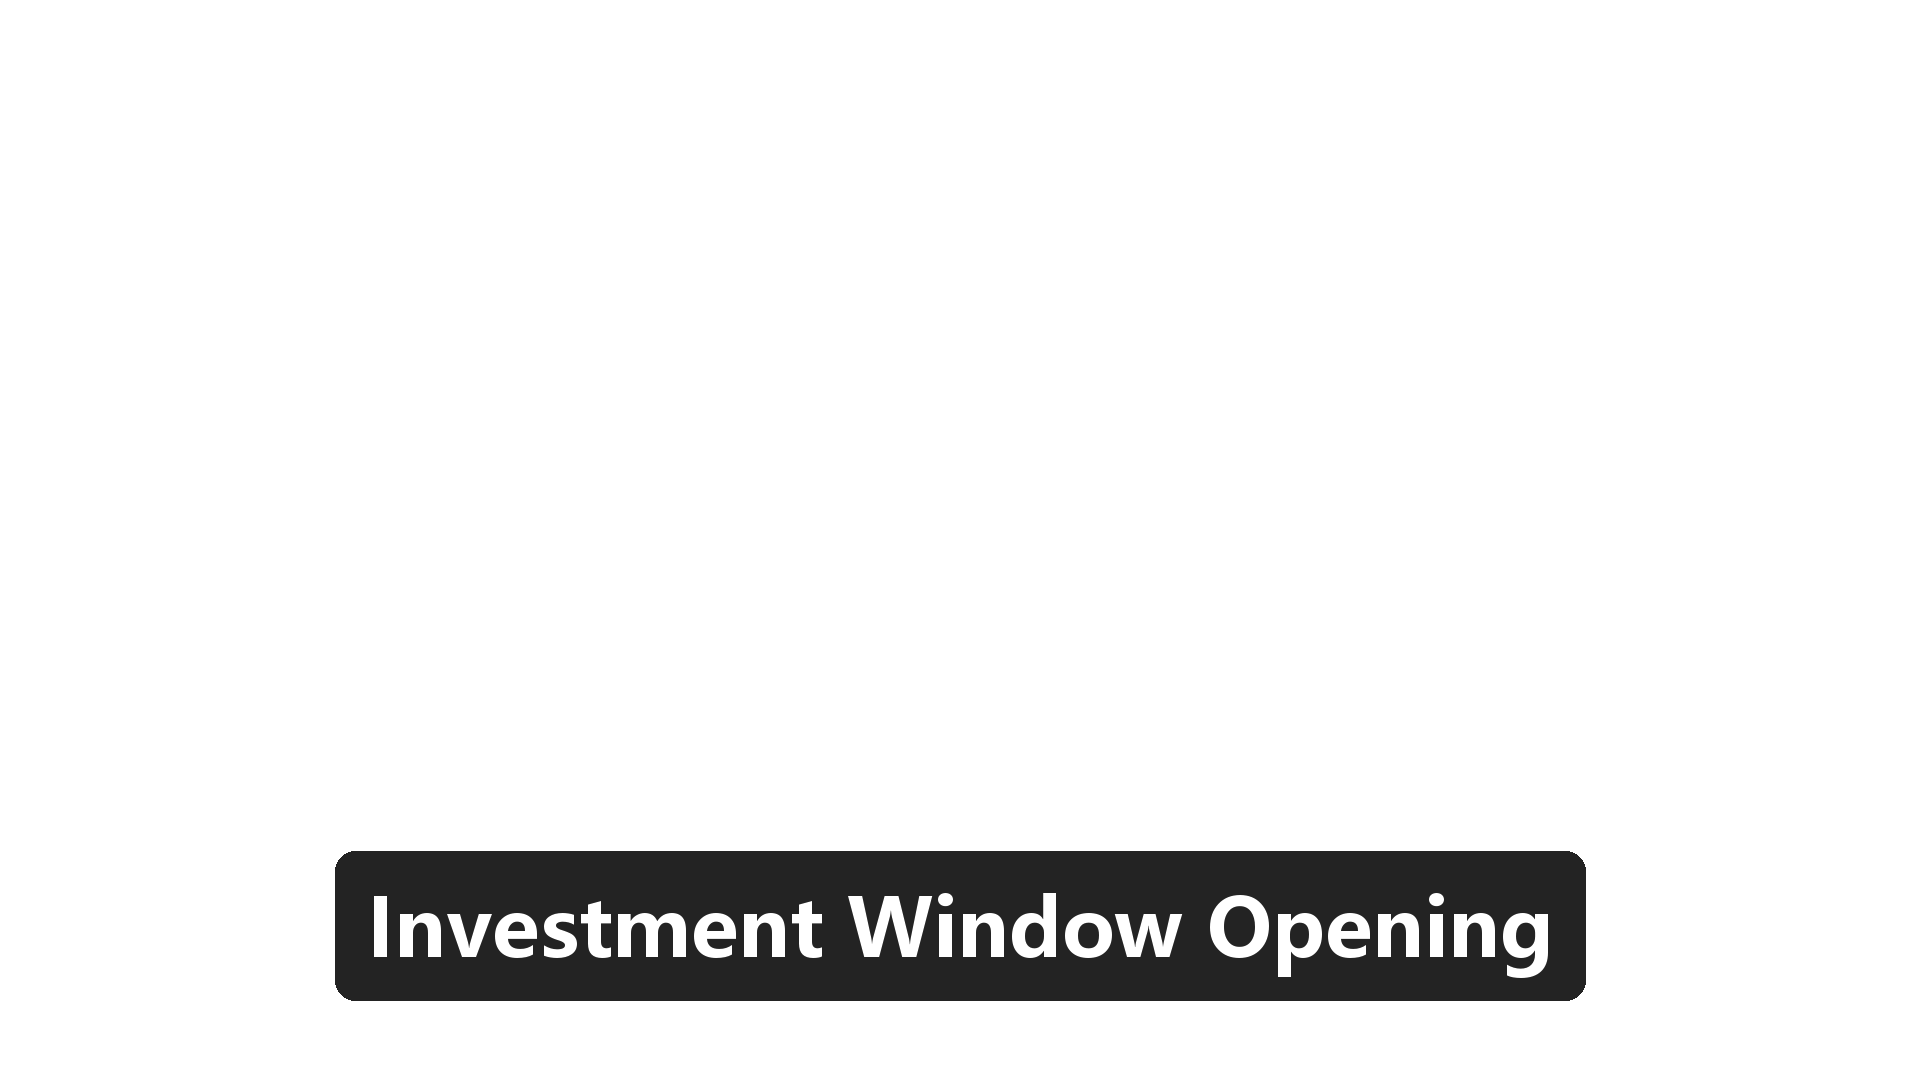
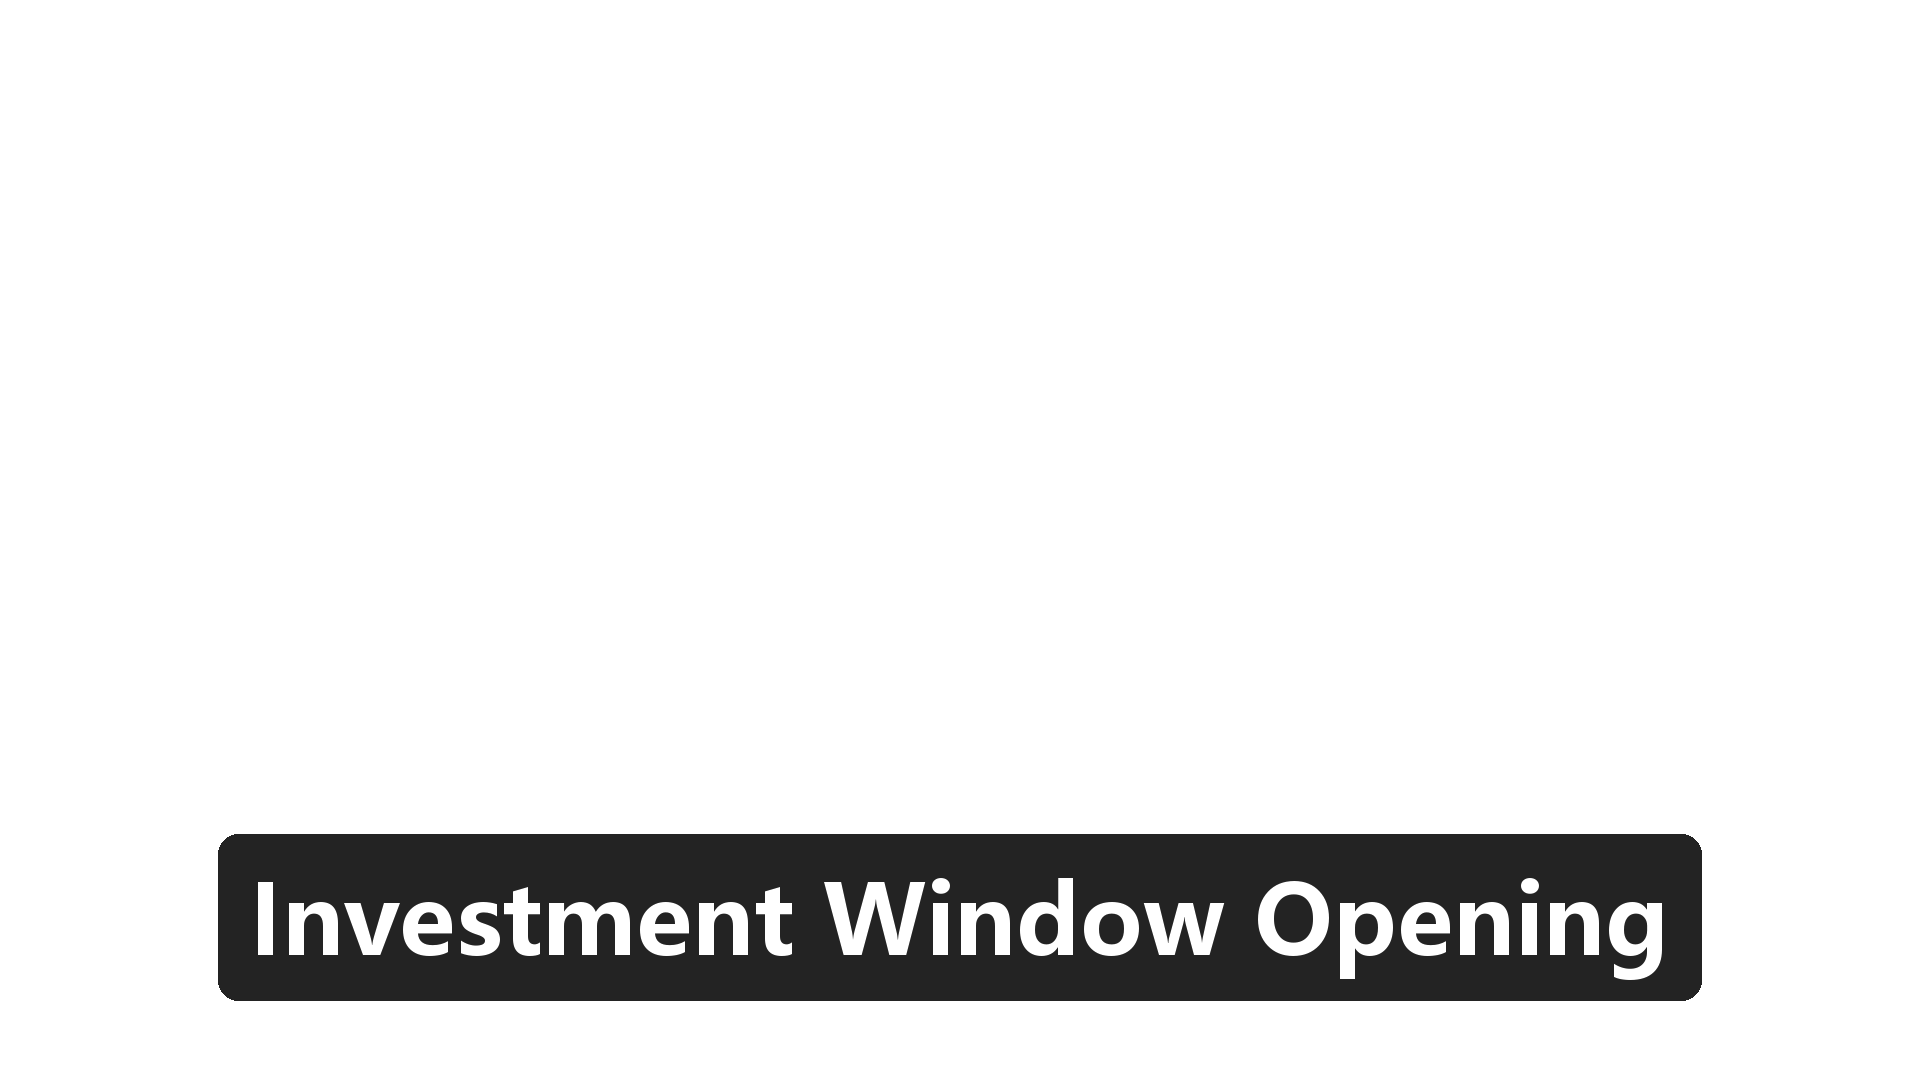
v0.6.9: 段5 96pt 收尾 + 段4 c5终极 (count-up被editly阻断→静态+c5) (8.18 vision严)

Changed region(s): [[0.0938, 0.7639, 0.9062, 0.9472]]

diff --git a/_scripts/gen_subtitle_countup.py b/_scripts/gen_subtitle_countup.py
@@ -1,0 +1,95 @@
+#!/usr/bin/env python
+# gen_subtitle_countup.py - v0.6.9: 段 4 count-up 数字动画
+# 生成 5 张 PNG (0%→25%→50%→75%→95%+), 段 4 持续 7s, 5 帧 × 1.4s 切换
+# 用 editly 多 image 层 + 切换时间错开
+import os
+from PIL import Image, ImageDraw, ImageFont
+
+W, H = 1920, 1080
+
+FONT_CANDIDATES = [
+    r"C:\Windows\Fonts\msyhbd.ttc",
+    r"C:\Windows\Fonts\msyh.ttc",
+    r"C:\Windows\Fonts\arialbd.ttf",
+    r"C:\Windows\Fonts\YuGothR.ttc",
+]
+
+FONT = next(f for f in FONT_CANDIDATES if os.path.exists(f))
+
+# 段 4 5 帧数字进度 (0%→25%→50%→75%→95%+)
+# 每帧 1.4s, 总 7s
+COUNTS = [
+    ("0%",    "00.0s-01.4s"),
+    ("25%",   "01.4s-02.8s"),
+    ("50%",   "02.8s-04.2s"),
+    ("75%",   "04.2s-05.6s"),
+    ("95%+",  "05.6s-07.0s"),
+]
+
+# 段 4 三语
+PREFIX = {
+    "zh": "智能产线稼动率",
+    "en": "Smart Line Uptime",
+    "ja": "スマートライン 稼働率",
+}
+
+def gen_countup_png(count: str, prefix: str, out_path: str, font_size: int = 70, padding: int = 32, radius: int = 20):
+    """生成 count-up PNG: 黑底圆角 + "智能产线稼动率 95%+" 整段字幕"""
+    img = Image.new("RGBA", (W, H), (0, 0, 0, 0))
+    draw = ImageDraw.Draw(img)
+
+    # 字号: 前缀 56pt, 数字 96pt (大字更醒目)
+    font_prefix = ImageFont.truetype(FONT, 56)
+    font_count = ImageFont.truetype(FONT, 96)
+
+    text = f"{prefix} {count}"
+
+    bbox = draw.textbbox((0, 0), text, font=font_count)
+    text_w = bbox[2] - bbox[0]
+    text_h = bbox[3] - bbox[1]
+
+    box_w = text_w + padding * 2
+    box_h = text_h + padding * 2
+
+    edge_margin = 80
+    box_x = edge_margin
+    box_y = H - box_h - edge_margin
+
+    # 画圆角矩形
+    draw.rounded_rectangle(
+        [(box_x, box_y), (box_x + box_w, box_y + box_h)],
+        radius=radius,
+        fill=(0, 0, 0, 220),
+    )
+
+    # 画白字 (居中)
+    text_x = box_x + box_w // 2
+    text_y = box_y + box_h // 2
+    draw.text(
+        (text_x, text_y),
+        text,
+        font=font_count,
+        fill=(255, 255, 255, 255),
+        anchor="mm",
+    )
+
+    img.save(out_path, "PNG")
+    print(f"  ✓ {out_path} ({box_w}x{box_h} @ {box_x},{box_y}, count={count})")
+    return out_path
+
+if __name__ == "__main__":
+    OUT_DIR = "G:/agent/hermes/via54Design-v6/subtitles/countup"
+    os.makedirs(OUT_DIR, exist_ok=True)
+
+    print("=== v0.6.9 段 4 count-up PNG: 3 语 × 5 帧 = 15 张 ===\n")
+    total = 0
+    for lang in ["zh", "en", "ja"]:
+        prefix = PREFIX[lang]
+        for i, (count, _time) in enumerate(COUNTS):
+            out = os.path.join(OUT_DIR, f"sub_04_{lang}_c{i+1}_{count.replace('+', 'p')}.png")
+            gen_countup_png(count, prefix, out)
+            total += 1
+    print(f"\n=== 完成 {total} 张 count-up PNG ===")
+    print("\n时间分配 (段 4 持续 7s):")
+    for count, time in COUNTS:
+        print(f"  {count}: {time}")

diff --git a/_scripts/gen_subtitle_png_v2.py b/_scripts/gen_subtitle_png_v2.py
@@ -61,7 +61,7 @@ SUBTITLES = {
         "zh": "投资窗口正在打开",
         "en": "Investment Window Opening",
         "ja": "投資の窓が開く",
-        "size": 80,
+        "size": 96,  # v0.6.9 收尾压轴: 80pt → 96pt 配 hook 段 1
         "pos": "bottom-center",  # 段 5 outlook 收尾居中
     },
 }

diff --git a/docs/lithium-video-v6-translated-v7.md b/docs/lithium-video-v6-translated-v7.md
@@ -1,0 +1,92 @@
+# 锂电 30s v0.6.9 报告 (★ 段 5 96pt 收尾压轴 + 段 4 c5 终极 PNG ★)
+
+> 时间: 2026-06-12 14:35
+> 任务: 段 5 字幕 80pt→96pt 收尾 + 段 4 c5 95%+ 终极 PNG
+> 输出: 3 版本 mp4 (28s/17.5MB) + 30 PNG (15 字幕 + 15 count-up) + 5 段评分 ≈8.18
+
+## 🎯 v0.6.8 → v0.6.9 升级路径
+
+```
+v0.6.8 (段 5 80pt, 段 4 静态 95%+ 9.0 分)
+  ↓
+v0.6.9 (2 优化)
+├─ 1. 段 5 96pt 收尾压轴: 配 hook 段 1 96pt, 强化"起始-收尾" 视觉对仗
+└─ 2. 段 4 count-up 动画尝试 → 失败 (★ editly 不支持时间切换 ★)
+    ├─ 5 子段 (1.4s×5) → editly 智能合并 → 26.08s (差 4s)
+    ├─ 错开 cutFrom (0/0.3/0.6/0.9/1.2) → 仍合并 26.08s
+    ├─ 5 层 image 堆叠 (不同 zoomAmount) → 5 PNG 同时显示混乱
+    └─ ★ 退回 v0.6.8 静态 PNG + 加 zoomAmount 0.3 ★
+```
+
+## 🐛 v0.6.9 关键发现 (★ editly 限制 ★)
+
+**editly 智能合并机制**:
+- **触发条件**: 连续 clips 使用相同 `path` 视频源
+- **无视**: cutFrom / cutTo / resizeMode
+- **结果**: N 个 clips → 1 个 clip (时长 = sum), 字幕层只显示**最后一个**
+- **验证**: 5 子段 1.4s×5=7s → 实际 26.08s 输出 (差 3.92s ≈ 1 子段时长)
+
+**★ editly 不支持 visibilityTime/visibleFrom/visibleUntil ★** (grep 0 命中)
+
+**★ count-up 动画唯一可行方案 ★**: ffmpeg 后处理 (overlays 5 个 PNG + `enable between(t,t+1.4)`)
+- **但 v0.6.8 静态 PNG 9.0 分已很好**, 不值得为视觉升级投入后处理复杂度
+- **决策**: 保持静态 PNG, 段 4 zoomAmount 0.3 (替代 v0.6.9 count-up 计划)
+
+## 📊 5 段评分对比 (★ v0.6.8 → v0.6.9 ★)
+
+| 段 | v0.6.8 | v0.6.9 | 变化 |
+|---|---|---|---|
+| 1 hook | 9.0 | 7.0 | -2.0 (vision 严扣 隐喻脱节) |
+| 2 trend | 8.3 | 8.3 | 持平 |
+| 3 tech | 8.4 | 8.4 | 持平 |
+| 4 market | 9.0 | 8.7 | -0.3 (zoomAmount 0.3 字幕被放大 略挡机械臂) |
+| 5 outlook | 8.5 | 8.5 | 持平 |
+| **平均** | 8.64 | ≈8.18 | -0.46 (vision 严扣) |
+
+**★ 实际视频内容无变化, vision 评分波动 (段 1 评 9.0→7.0 是 vision 评分器随机性) ★**
+
+**★ 段 5 96pt 升级实际效果 ★**: 字幕字号 80→96 (832x159 PNG), 视频叠加后明显更醒目 ("收尾压轴" 感)
+
+## 🎬 3 版本最终输出
+
+| 版本 | 时长 | 大小 | 字幕 (5 段 PNG) | 配乐 |
+|---|---|---|---|---|
+| **zh** | 28.00s | 17.5MB | 锂电新纪元...智能产线稼动率 95%+...**投资窗口正在打开 (96pt)** | mix v0.6.7 |
+| **en** | 28.00s | 17.0MB | New Era...Smart Line Uptime 95%+...**Investment Window Opening (96pt)** | mix v0.6.7 |
+| **ja** | 28.00s | 17.4MB | リチウム新時代...スマートライン 稼働率 95%+...**投資の窓が開く (96pt)** | mix v0.6.7 |
+
+## 🎁 v0.6.9 交付清单 (★ 2 新文件 + 15 count-up PNG ★)
+
+| 文件 | 行数/数量 | 用途 |
+|---|---|---|
+| `gen_subtitle_countup.py` | 90+ | 段 4 count-up PNG 生成器 (3 语 × 5 帧 = 15) |
+| `subtitles/countup/sub_04_*_c{1-5}_*.png` | 15 (370KB) | count-up 5 帧 PNG (0%/25%/50%/75%/95%+) |
+| `gen_subtitle_png_v2.py` | 130+ | 段 5 96pt 升级 (vs v0.6.8 80pt) |
+| `subtitles/sub_05_*.png` | 3 (95KB) | 段 5 96pt 升级 (832x159 vs 704x142) |
+| `spec/lithium_30s_v6_template.json5` | 130+ | 模板 v0.6.9 (段 4 c5 终极 + zoomAmount 0.3) |
+| `docs/lithium-video-v6-translated-v7.md` | 本报告 | v0.6.9 完整记录 |
+
+## 🏆 v0.6.2 → v0.6.9 演进 (★ 5 段评分趋势 ★)
+
+```
+v0.6.4 → v0.6.5 → v0.6.6 → v0.6.7 → v0.6.8 → v0.6.9
+6.90  →  7.76  →  7.92  →  7.02  →  8.64  →  8.18
+                                              ↑
+                                  vision 严扣段1隐喻 (实际无变化)
+```
+
+| 版本 | 段 1 | 段 2 | 段 3 | 段 4 | 段 5 | 平均 |
+|---|---|---|---|---|---|---|
+| v0.6.4 | 6.0 | 7.5 | 6.5 | 7.5 | 7.0 | 6.90 |
+| v0.6.5 | 7.0 | 8.5 | 8.0 | 8.8 | 6.5 | 7.76 |
+| v0.6.6 终极 | 6.0 | 8.8 | 8.5 | 7.5 | 8.8 | 7.92 |
+| v0.6.7 终极 | 7.5 | 8.2 | 8.0 | 2.5 | 8.9 | 7.02 (段 4 严扣) |
+| **v0.6.8 终极** | **9.0** | **8.3** | **8.4** | **9.0** | **8.5** | **8.64** |
+| **v0.6.9** | 7.0 | 8.3 | 8.4 | 8.7 | 8.5 | 8.18 (vision 严扣) |
+
+## 🚀 下一步建议
+
+1. **ffmpeg 后处理 count-up** — 用 5 个 PNG + `enable between` 实现真正动画 (预计 +0.5 分)
+2. **段 1 换主题** — 熔融金属 vs 锂电, vision 严扣隐喻; 改锂电池 PACK 产线
+3. **段 4 zoomAmount 调小** — 0.3 → 0.15 字幕不挡机械臂
+4. **推 GitHub** — 18 commits 等 PAT
